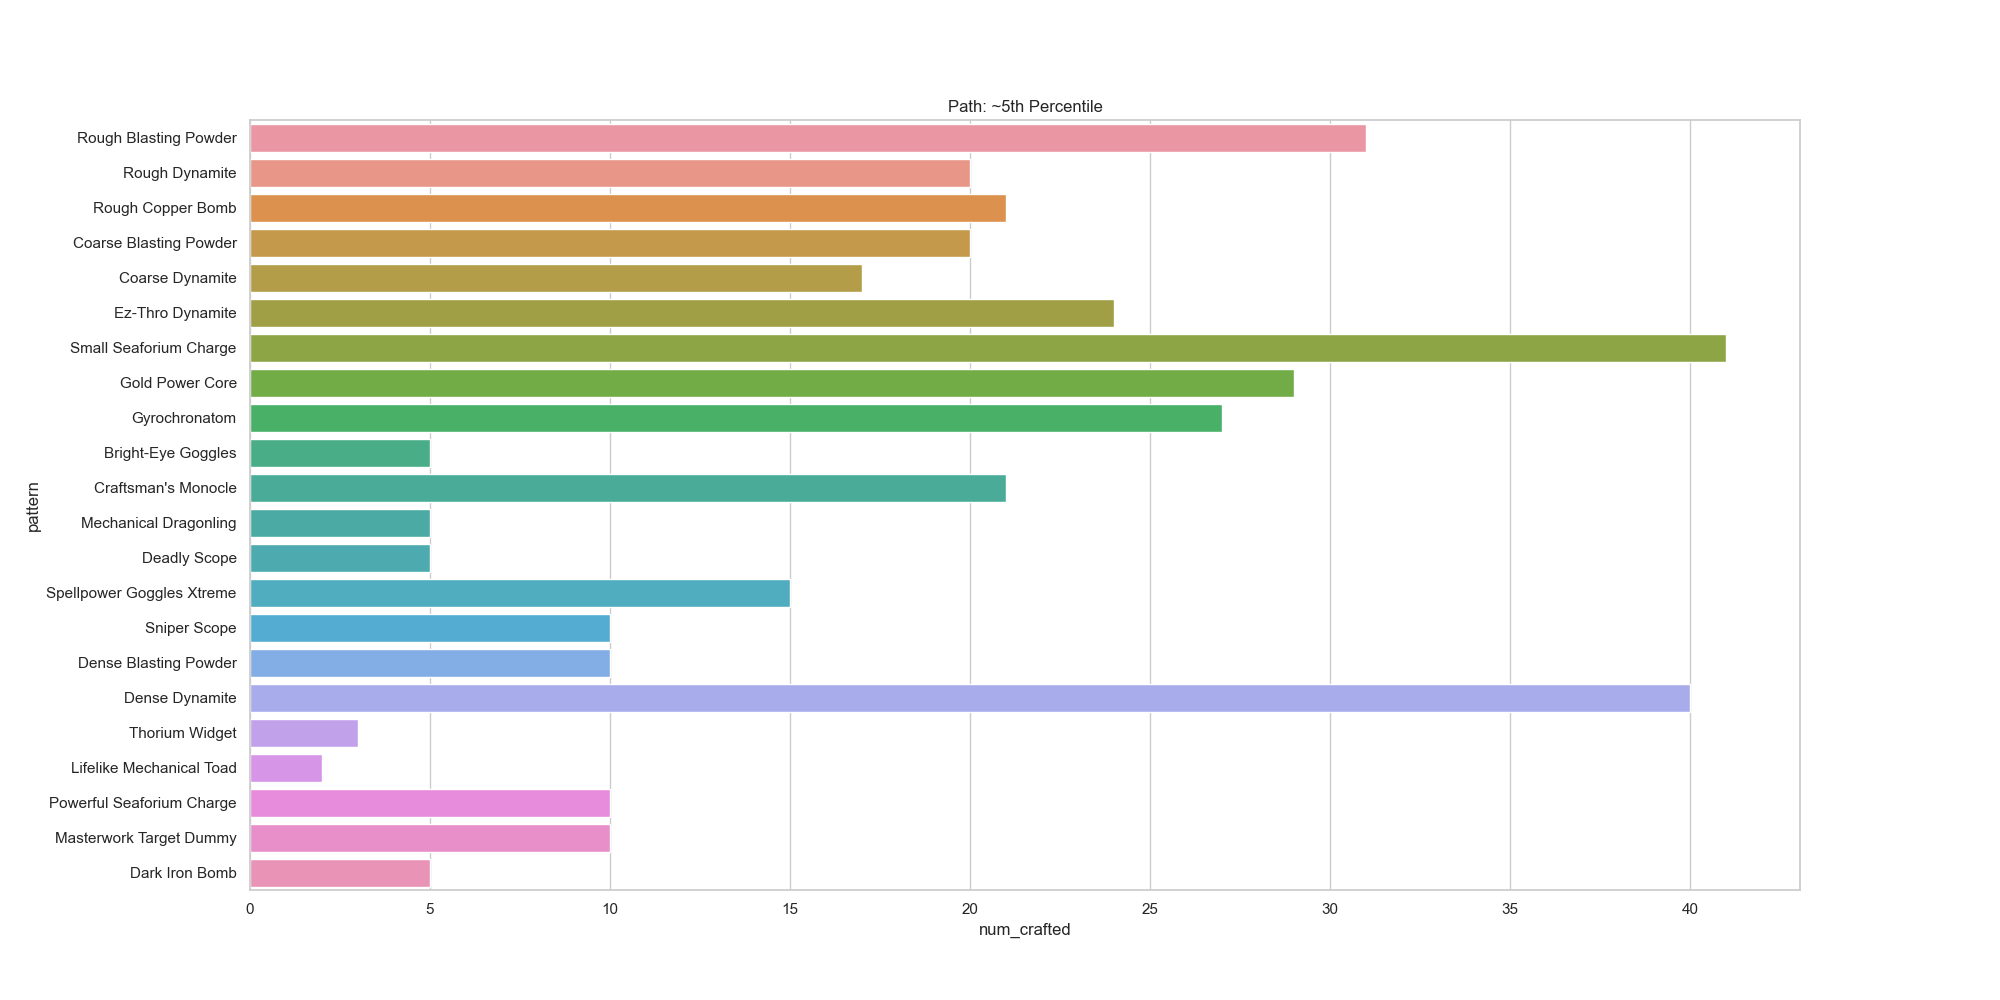
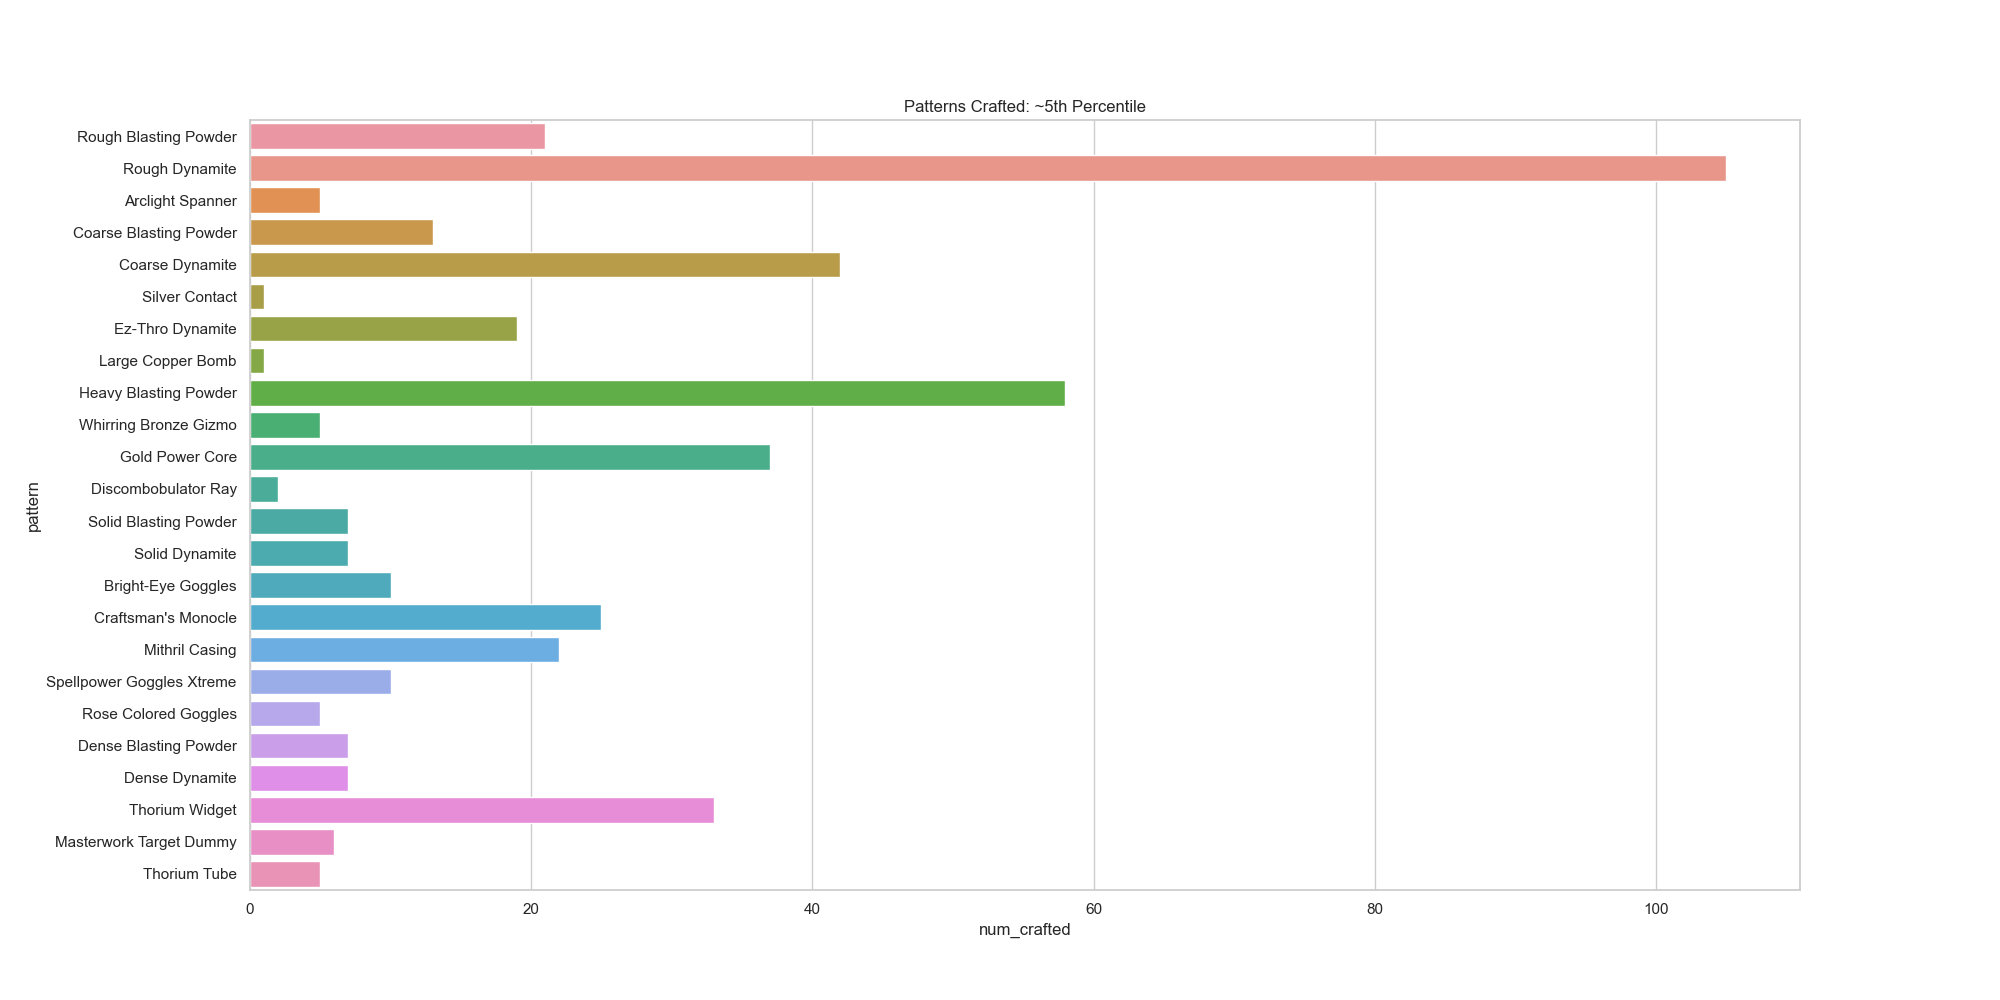
Normalize & sort keys before we display plots

Changed region(s): [[0.031, 0.093, 0.868, 0.899]]

diff --git a/simulation.py b/simulation.py
@@ -80,20 +80,27 @@ class Simulation:
             else:
                 freq[item] = 1
         return freq
-    
-    def fmt_freq_dict_to_include_total_patterns(self, freq_dict: dict) -> dict:
-        freq_total_patterns = {}
-        # Build a base dict that includes 0 counts of every
-        # available pattern
-        for (name, _) in self.patterns.items():
-            freq_total_patterns[name] = 0
-            
-        # Augment the base dict to include counts for everything
-        # in our crafting path
-        for (name, ct) in freq_dict.items():
-            freq_total_patterns[name] = ct
 
-        return freq_total_patterns
+    @staticmethod
+    def fmt_freq_dict_based_on_ordered_key_list(ordered_keys: list, freq_dict_to_sort: dict) -> dict:
+        sorted_dict = {}
+        for key in ordered_keys:
+            if key in freq_dict_to_sort:
+                sorted_dict[key] = freq_dict_to_sort[key]
+            else:
+                sorted_dict[key] = 0
+        return sorted_dict
+
+    def sort_pattern_keys(self, keys: list) -> list:
+        key_index_map = {}
+        all_keys = list(self.patterns.keys())
+        for key in keys:
+            i = all_keys.index(key)
+            key_index_map[key] = i
+        # Sort dict based on values
+        key_index_map = dict(sorted(key_index_map.items(), key=lambda x: x[1]))
+
+        return list(key_index_map.keys())
 
     def add_to_bank(self, name: str) -> None:
         if name not in self.cm_bank.keys():
@@ -218,6 +225,8 @@ class Simulation:
         print(f'Median cost: {cost_median}')
         print(f'95th percentile cost: {cost_ninety_fifth_p}')
 
+        # TODO output JSON with the route data before we normalize
+
         # Display the crafting routes that correspond to lower/upper percentiles
         # along with the median
         (cost_fifth_p_key, _) = min(sim_costs.items(), key=lambda x: abs(cost_fifth_p - x[1]))
@@ -232,26 +241,34 @@ class Simulation:
         path_from_cost_ninety_fifth_p_key = Simulation.to_frequency_dict(sim_crafting_paths[cost_ninety_fifth_p_key])
         print(f'\nPath associated with ~95th percentile cost: {path_from_cost_ninety_fifth_p_key}')
 
+        # For ease of viewing, we want to normalize the keys between each of the figures
+        keys_norm = set(list(path_from_cost_fifth_p_key.keys()) + list(path_from_cost_median_p_key.keys()) + list(path_from_cost_ninety_fifth_p_key.keys()))
+        keys_norm = self.sort_pattern_keys(keys_norm)
+        
+        path_from_cost_fifth_p_key = Simulation.fmt_freq_dict_based_on_ordered_key_list(keys_norm, path_from_cost_fifth_p_key)
+        path_from_cost_median_p_key = Simulation.fmt_freq_dict_based_on_ordered_key_list(keys_norm, path_from_cost_median_p_key)
+        path_from_cost_ninety_fifth_p_key = Simulation.fmt_freq_dict_based_on_ordered_key_list(keys_norm, path_from_cost_ninety_fifth_p_key)
+
         plt.figure(figsize=(20, 10))
-        path_from_cost_fifth_p_key_df = pd.DataFrame(list(zip(path_from_cost_fifth_p_key.keys(), path_from_cost_fifth_p_key.values())), columns =['pattern', 'num_crafted'])
+        path_from_cost_fifth_p_key_df = pd.DataFrame(list(zip(keys_norm, path_from_cost_fifth_p_key.values())), columns =['pattern', 'num_crafted'])
         sns.set_theme(style="whitegrid")
-        sns.barplot(x="num_crafted", y="pattern", data=path_from_cost_fifth_p_key_df).set(title='Path: ~5th Percentile')
+        sns.barplot(x="num_crafted", y="pattern", data=path_from_cost_fifth_p_key_df).set(title='Patterns Crafted: ~5th Percentile')
         plt.savefig('figures/sb_barplot_fifth_p.png')
 
         plt.clf()
 
         plt.figure(figsize=(20, 10))
-        path_from_cost_median_p_key_df = pd.DataFrame(list(zip(path_from_cost_median_p_key.keys(), path_from_cost_median_p_key.values())), columns =['pattern', 'num_crafted'])
+        path_from_cost_median_p_key_df = pd.DataFrame(list(zip(keys_norm, path_from_cost_median_p_key.values())), columns =['pattern', 'num_crafted'])
         sns.set_theme(style="whitegrid")
-        sns.barplot(x="num_crafted", y="pattern", data=path_from_cost_median_p_key_df).set(title='Path: Approx. Median')
+        sns.barplot(x="num_crafted", y="pattern", data=path_from_cost_median_p_key_df).set(title='Patterns Crafted: Approx. Median')
         plt.savefig('figures/sb_barplot_median_p.png')
 
         plt.clf()
 
         plt.figure(figsize=(20, 10))
-        path_from_cost_ninety_fifth_p_key_df = pd.DataFrame(list(zip(path_from_cost_ninety_fifth_p_key.keys(), path_from_cost_ninety_fifth_p_key.values())), columns =['pattern', 'num_crafted'])
+        path_from_cost_ninety_fifth_p_key_df = pd.DataFrame(list(zip(keys_norm, path_from_cost_ninety_fifth_p_key.values())), columns =['pattern', 'num_crafted'])
         sns.set_theme(style="whitegrid")
-        sns.barplot(x="num_crafted", y="pattern", data=path_from_cost_ninety_fifth_p_key_df).set(title='Path: ~95th Percentile')
+        sns.barplot(x="num_crafted", y="pattern", data=path_from_cost_ninety_fifth_p_key_df).set(title='Patterns Crafted: ~95th Percentile')
         plt.savefig('figures/sb_barplot_ninety_fifth_p.png')
 
         plt.clf()

diff --git a/__main__.py b/__main__.py
@@ -14,7 +14,7 @@ def main(args: dict) -> None:
         market_data = {k: MarketData.schema().load(v) for k, v in market_data.items()}
 
     sim = Simulation(crafting_patterns, market_data)
-    sim.run_simulation(RunConfigs(sim_start_lv=1, sim_end_lv=300, simulations=50))
+    sim.run_simulation(RunConfigs(sim_start_lv=1, sim_end_lv=300, simulations=100))
 
 
 if __name__ == "__main__":
